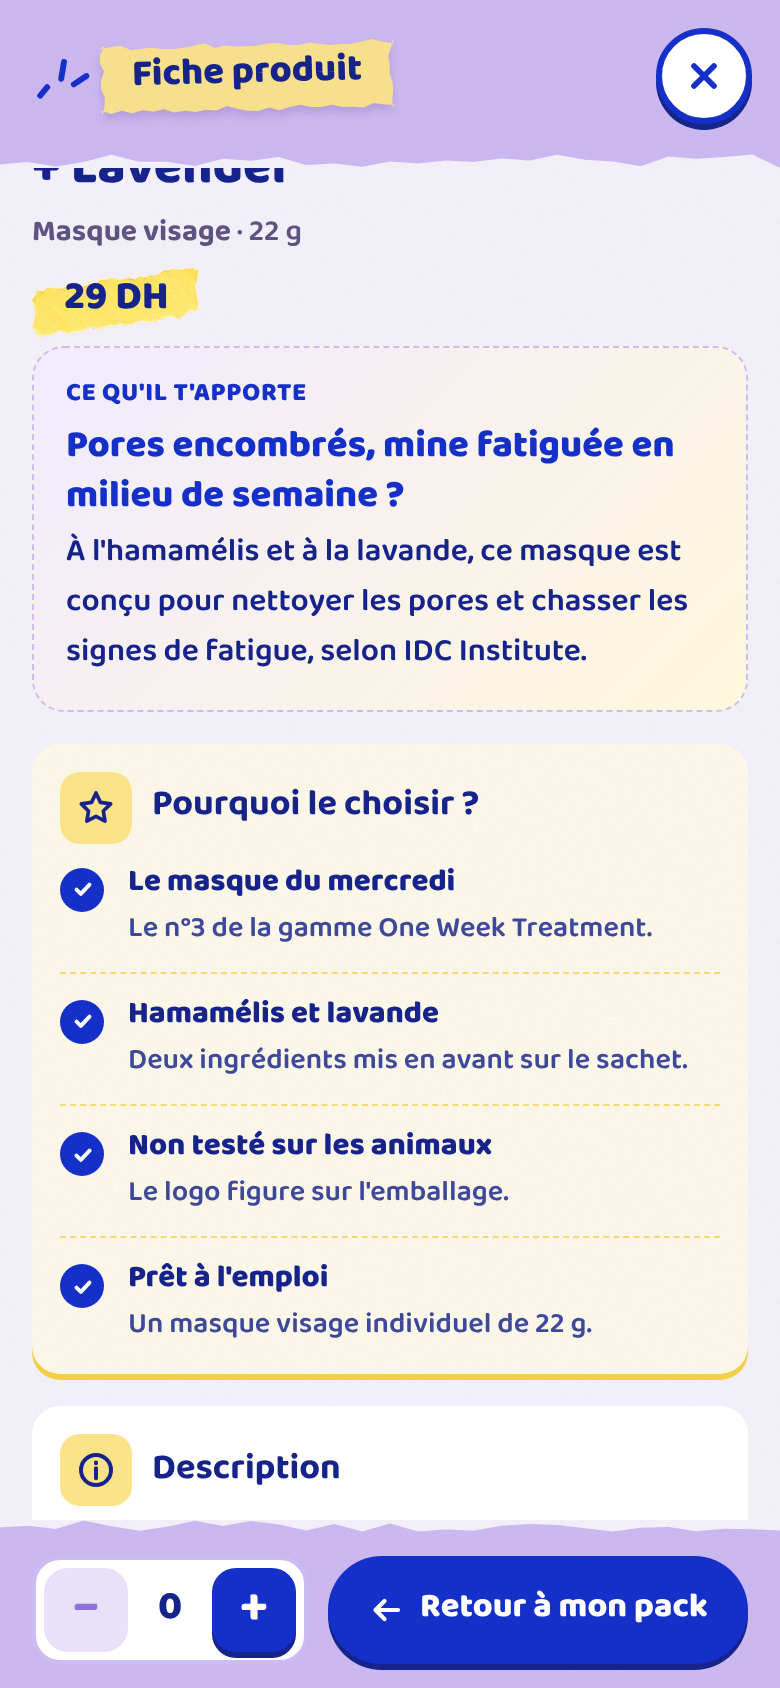
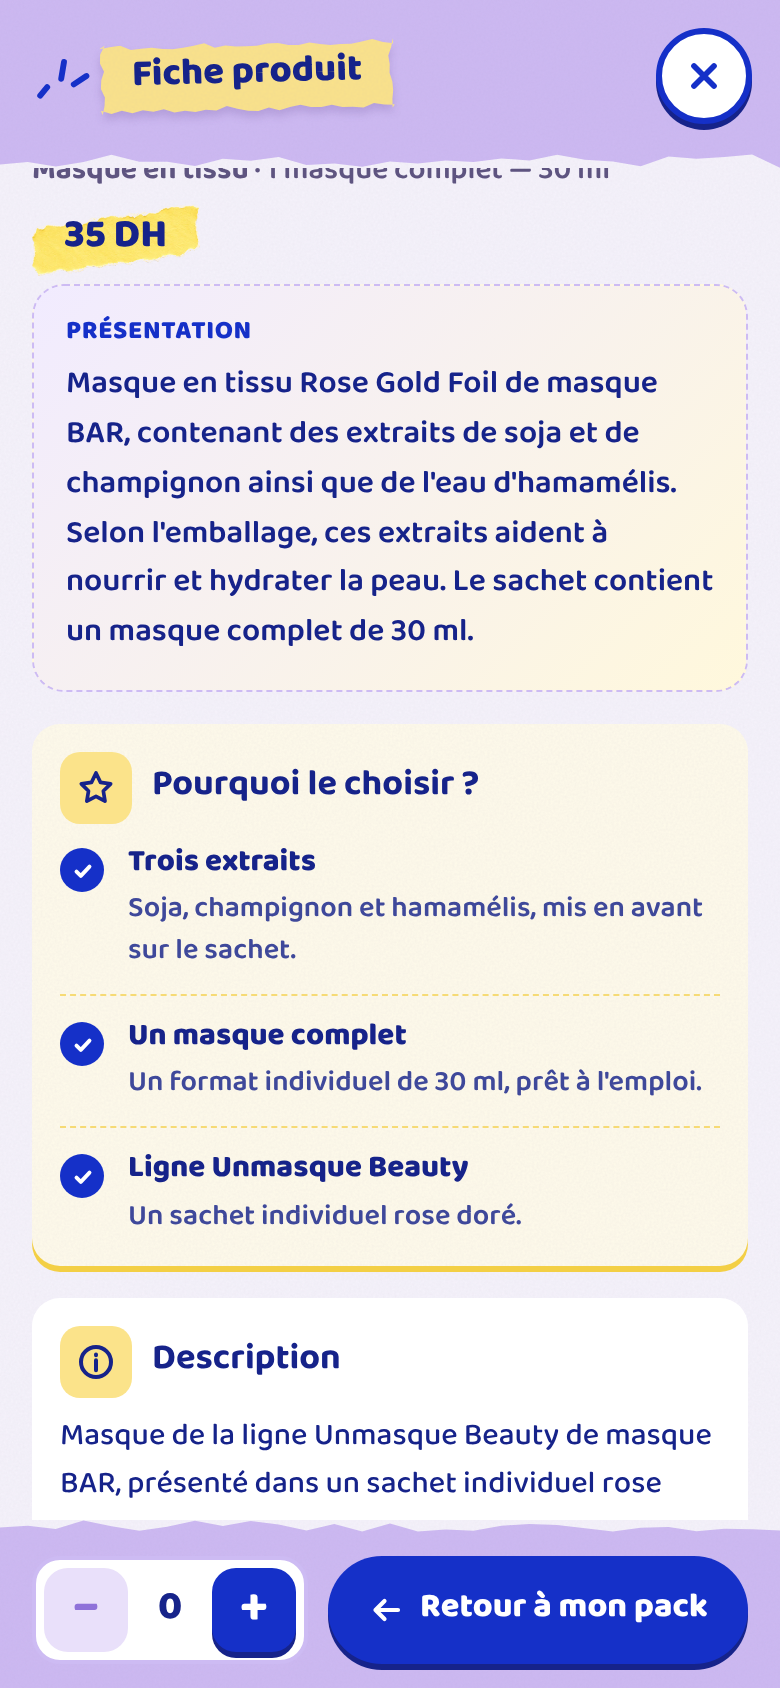
Fiches : présentation sobre et vérifiée sur les emballages (FR / AR / EN)
- Bloc « Présentation » : ce que c'est, ingrédients confirmés, ce que dit l'emballage, format
- Plus de question marketing ni de situation inventée (descriptions + 3 points forts corrigés)
- docs/presentation-fiches.md : chaque texte avec sa source sur l'emballage
- Mise à jour sûre : versions précédentes remplacées, textes de l'admin conservés

Claude-Session: https://claude.ai/code/session_01D4a2WqgbVXQvrowoBomywW

diff --git a/server/scripts/fiches.js b/server/scripts/fiches.js
@@ -8,7 +8,7 @@ import { pathToFileURL } from "node:url";
 import mysql from "mysql2/promise";
 import { loadConfig, PROJECT_ROOT } from "../src/config.js";
 
-const FILES = ["fiches-produits.sql", "photos-produits.sql", "produits-soins.sql", "descriptions-v2.sql", "points-forts-v2.sql", "contenu-v3.sql", "prix-masques.sql", "corrections-langue.sql", "meta-pixel.sql", "introductions.sql"].map(f => path.join(PROJECT_ROOT, "database", f));
+const FILES = ["fiches-produits.sql", "photos-produits.sql", "produits-soins.sql", "descriptions-v2.sql", "points-forts-v2.sql", "contenu-v3.sql", "prix-masques.sql", "corrections-langue.sql", "meta-pixel.sql", "introductions.sql", "fiches-sobres.sql"].map(f => path.join(PROJECT_ROOT, "database", f));
 
 /* Découpe le fichier en blocs « -- fiche: <clé> | <libellé> » + une requête UPDATE */
 async function blocks() {
@@ -60,7 +60,8 @@ export async function applyFiches(conn, { quiet = false } = {}) {
         : r.key.startsWith("v3-") ? "Fiches v3 — avantages d'abord, une langue par texte :"
         : r.key.startsWith("langue-") ? "Corrections de langue (FR / AR / EN) :"
         : r.key.startsWith("reglage-") ? "Réglages :"
-        : r.key.startsWith("intro-") ? "Introductions des fiches (« Ce qu’il t’apporte ») :"
+        : r.key.startsWith("sobre-") ? "Descriptions et points forts sobres :"
+        : r.key.startsWith("intro-") ? "Présentation des fiches (version vérifiée sur les emballages) :"
         : r.key.startsWith("prix-") ? "Prix unitaires des masques (posés seulement si le prix est vide) :"
         : r.key.startsWith("produit-") || r.key.startsWith("categorie") || r.key.startsWith("photo-orjena") || r.key.startsWith("photo-somebymi") ? "Soins à l'unité :"
         : r.key.startsWith("photo-") ? "Photos d'ambiance :" : "";
@@ -69,7 +70,7 @@ export async function applyFiches(conn, { quiet = false } = {}) {
         : r.key.startsWith("reglage-") ? (r.changed ? `ajouté → ${r.setting}` : `déjà réglé, conservé → ${r.setting}`)
         : r.key.startsWith("prix-") ? (r.changed ? `prix posé → ${r.prices.join(", ")}` : `prix déjà saisi, conservé → ${r.prices.join(", ")}`)
         : r.created ? (r.changed ? "ajoutée" : "déjà présente")
-        : r.key.startsWith("desc-") || r.key.startsWith("pf-") || r.key.startsWith("v3-") || r.key.startsWith("langue-") || r.key.startsWith("intro-") ? (r.changed ? "réécrite" : "déjà à jour (ou modifiée dans l'admin : conservée)")
+        : r.key.startsWith("desc-") || r.key.startsWith("pf-") || r.key.startsWith("v3-") || r.key.startsWith("langue-") || r.key.startsWith("intro-") || r.key.startsWith("sobre-") ? (r.changed ? "réécrite" : "déjà à jour (ou modifiée dans l'admin : conservée)")
         : r.changed ? `complétée (${r.matched} produit(s))` : `déjà à jour (${r.matched} produit(s))`;
       console.log(`  ${r.matched ? "✔" : "✖"} ${r.label.padEnd(62)} ${state}`);
     }

diff --git a/client/src/shop/pages/PickPage.jsx b/client/src/shop/pages/PickPage.jsx
@@ -19,7 +19,7 @@ export const P = {
     empty: "Vide", removeOne: "Retirer ce masque", sheetTag: "Fiche produit", photo: n => `Photo ${n}`,
     packText: "Mentions imprimées sur l'emballage", packNote: "Recopiées telles quelles, dans la langue de l'emballage.",
     info: "Description", usage: "Mode d'emploi", video: "Vidéo", notGiven: "Information à confirmer",
-    intro: "Ce qu'il t'apporte", hl: "Pourquoi le choisir ?", specs: "Fiche technique",
+    intro: "Présentation", hl: "Pourquoi le choisir ?", specs: "Fiche technique",
     sBrand: "Marque", sName: "Nom du produit", sType: "Type", sContent: "Contenance", precautions: "Précautions",
     packMore: "Voir le texte original de l'emballage",
     backTo: "Retour à mon pack", edit: "Modifier le pack", added: "Pack ajouté au panier ✓", addedBtn: "Ajouté",
@@ -33,7 +33,7 @@ export const P = {
     empty: "فارغ", removeOne: "إزالة هذا القناع", sheetTag: "بطاقة المنتج", photo: n => `الصورة ${n}`,
     packText: "النص المطبوع على الغلاف", packNote: "منقول كما هو، بلغة الغلاف.",
     info: "الوصف", usage: "طريقة الاستعمال", video: "فيديو", notGiven: "معلومة في انتظار التأكيد",
-    intro: "ما يقدّمه لكِ", hl: "لماذا تختارينه؟", specs: "البطاقة التقنية",
+    intro: "نبذة عن المنتج", hl: "لماذا تختارينه؟", specs: "البطاقة التقنية",
     sBrand: "العلامة التجارية", sName: "اسم المنتج", sType: "النوع", sContent: "المحتوى", precautions: "احتياطات الاستعمال",
     packMore: "عرض النص الأصلي للغلاف",
     backTo: "العودة إلى باقتي", edit: "تعديل الباقة", added: "أُضيفت الباقة إلى السلة ✓", addedBtn: "تمت الإضافة",
@@ -47,7 +47,7 @@ export const P = {
     empty: "Empty", removeOne: "Remove this mask", sheetTag: "Product sheet", photo: n => `Photo ${n}`,
     packText: "Printed on the packaging", packNote: "Copied as printed, in the packaging's language.",
     info: "Description", usage: "How to use", video: "Video", notGiven: "Information to be confirmed",
-    intro: "What it does for you", hl: "Why choose it?", specs: "Product details",
+    intro: "Overview", hl: "Why choose it?", specs: "Product details",
     sBrand: "Brand", sName: "Product name", sType: "Type", sContent: "Contents", precautions: "Precautions",
     packMore: "See the original packaging text",
     backTo: "Back to my pack", edit: "Change pack", added: "Pack added to cart ✓", addedBtn: "Added",

diff --git a/client/src/admin/pages/ProductForm.jsx b/client/src/admin/pages/ProductForm.jsx
@@ -101,9 +101,9 @@ export default function ProductForm() {
             </div>
           </Card>
 
-          <Card title="Introduction (ce qu’il t’apporte)" icon="star" actions={<Tabs small label="Langue de l'introduction" tabs={langTabs("intro")} value={introLang} onChange={setIntroLang} />}>
+          <Card title="Présentation (affichée en premier)" icon="star" actions={<Tabs small label="Langue de l'introduction" tabs={langTabs("intro")} value={introLang} onChange={setIntroLang} />}>
             {LANGS.map(([k, l]) => k === introLang && (
-              <Field key={k} label={`Introduction — ${l}`} error={errs["intro" + k]} hint="Affichée en premier sur la fiche : une question courte (« Peau terne ? »), puis le bénéfice annoncé par l’emballage avec « aide à », « conçu pour » ou « selon la marque ». Les effets annoncés par l'emballage sont présentés comme la description de la marque, jamais comme un résultat garanti. Vide = bloc masqué.">
+              <Field key={k} label={`Introduction — ${l}`} error={errs["intro" + k]} hint="Affichée en premier sur la fiche : ce que c’est, les ingrédients ou caractéristiques confirmés, puis ce que dit l’emballage (« selon l’emballage », « la marque le présente comme »). Pas de question marketing ni de situation inventée. Les effets annoncés par l'emballage sont présentés comme la description de la marque, jamais comme un résultat garanti. Vide = bloc masqué.">
                 <textarea rows={4} dir={k === "Ar" ? "rtl" : undefined} {...fp("intro" + k)} /></Field>))}
           </Card>
 

diff --git a/docs/presentation-fiches.md b/docs/presentation-fiches.md
@@ -1,0 +1,75 @@
+# Présentation des fiches — version vérifiée (27/11/2026)
+
+Bloc **« Présentation »** (AR « نبذة عن المنتج », EN « Overview ») affiché en premier. Chaque phrase est vérifiée sur la photo de l'emballage.
+Structure : ce que c'est → ingrédients / caractéristiques confirmés → ce que dit l'emballage (« selon l'emballage », « la marque le présente comme ») → format.
+Aucune question marketing, aucune situation d'utilisation inventée, aucun résultat garanti.
+
+## 1. MEDIHEAL — Collagen
+
+**Source (emballage) :** « COLLAGEN » ; « 98 % » (texte coréen « 순도 UPGRADE ») ; « CORE FIRMING » ; « DERMATOLOGY TEST COMPLETED » ; « MEDIHEAL DERMATOLOGY ». Contenance et type exact (tissu, gel…) : non indiqués.
+
+- **FR** — Masque visage MEDIHEAL au collagène, d'une pureté de 98 % selon l'emballage. La marque le présente comme un soin destiné à la fermeté de la peau. Il est testé dermatologiquement (gamme Mediheal Dermatology).
+- **AR** — قناع للوجه من MEDIHEAL بالكولاجين، بنقاوة 98% حسب الغلاف. تقدّمه العلامة كعناية موجّهة لتماسك البشرة. وهو مختبَر جلدياً (مجموعة Mediheal Dermatology).
+- **EN** — MEDIHEAL face mask with collagen, 98% pure according to the packaging. The brand presents it as a care for skin firmness. It is dermatologically tested (Mediheal Dermatology line).
+
+## 2. 7th Heaven — Vitamin C
+
+**Source (emballage) :** « VITAMIN C » ; « ADVANCED SERUM SHEET MASK » ; « ANTI-FATIGUE — Brightening + Re-Energising » ; « FOR ALL SKIN TYPES » ; « Vegetarian Society Vegan Approved » ; « 1 BIODEGRADABLE SHEET MASK ». Le « 5 % Active Complex* » n'est pas repris (astérisque non expliqué).
+
+- **FR** — Masque en tissu imprégné d'un sérum à la vitamine C, adapté à tous les types de peau. Selon l'emballage, c'est un masque anti-fatigue qui aide à illuminer et à redynamiser la peau. Il est végan (approuvé par la Vegetarian Society) et le sachet contient un masque en tissu biodégradable.
+- **AR** — قناع قماشي مشبّع بسيروم فيتامين سي، مناسب لجميع أنواع البشرة. حسب الغلاف، هو قناع لمظاهر التعب يساعد على إشراق البشرة وتنشيطها. وهو نباتي (معتمد من Vegetarian Society)، ويحتوي الكيس على قناع قماشي واحد قابل للتحلل الحيوي.
+- **EN** — Sheet mask soaked in a vitamin C serum, suitable for all skin types. According to the packaging, it is an anti-fatigue mask that helps brighten and re-energise the skin. It is vegan (approved by the Vegetarian Society) and the sachet contains one biodegradable sheet mask.
+
+## 3. look AT ME — Green Blend
+
+**Source (emballage) :** « TEA TREE + CUCUMBER FACE MASK » ; « Revitalizing & Soothing » ; « TENCEL SHEET » ; « 1 SINGLE USE SHEET MASK » ; « 25ml / 0.84 fl oz » ; « MADE IN KOREA ».
+
+- **FR** — Masque visage en tissu à l'arbre à thé et au concombre, sur une feuille en Tencel. Selon l'emballage, il aide à revitaliser et à apaiser la peau. Le sachet contient un masque à usage unique de 25 ml, fabriqué en Corée.
+- **AR** — قناع قماشي للوجه بشجرة الشاي والخيار، على ورقة من ألياف Tencel. حسب الغلاف، يساعد على إنعاش البشرة وتهدئتها. يحتوي الكيس على قناع واحد للاستعمال مرة واحدة بحجم 25 مل، مصنوع في كوريا.
+- **EN** — Face sheet mask with tea tree and cucumber, on a Tencel sheet. According to the packaging, it helps revitalise and soothe the skin. The sachet contains one single-use 25 ml mask, made in Korea.
+
+## 4. IDC Institute — Hazel + Lavender
+
+**Source (emballage) :** « ONE WEEK TREATMENT » ; « 3 — WEDNESDAY » ; « Hazel + Lavender » ; « 22g / 0.73 fl.oz — FACIAL MASK » ; logo « CRUELTY FREE » ; « Nettoie les pores et élimine la fatigue de la peau » (texte français imprimé).
+
+- **FR** — Masque visage à l'hamamélis et à la lavande, n°3 (mercredi) de la gamme One Week Treatment d'IDC Institute. Selon l'emballage, il nettoie les pores et élimine la fatigue de la peau. Il n'est pas testé sur les animaux et le sachet contient un masque de 22 g.
+- **AR** — قناع للوجه بالهماميليس واللافندر، رقم 3 (الأربعاء) من مجموعة One Week Treatment من IDC Institute. حسب الغلاف، ينظّف المسام ويزيل مظاهر التعب عن البشرة. وهو غير مختبَر على الحيوانات، ويحتوي الكيس على قناع واحد بوزن 22 غرام.
+- **EN** — Face mask with witch hazel and lavender, no. 3 (Wednesday) in IDC Institute's One Week Treatment line. According to the packaging, it cleans the pores and removes tiredness from the face. It is cruelty free and the sachet contains one 22 g mask.
+
+## 5. SOME BY MI — Real Glutathione
+
+**Source (emballage) :** « Moisturizing | Radiance » ; « Dermatologist Tested » ; « A 100% plant-based biodegradable sheet mask formulated with Real Glutathione that revitalizes dull skin and promotes a brighter, more even skin tone » ; « NET 20 G ».
+
+- **FR** — Masque en tissu au glutathion, sur une feuille 100 % végétale et biodégradable. Selon l'emballage, il hydrate, ravive les peaux ternes et favorise un teint plus lumineux et plus uniforme. Il est testé dermatologiquement ; poids net : 20 g.
+- **AR** — قناع قماشي بالغلوتاثيون، على ورقة نباتية 100% وقابلة للتحلل الحيوي. حسب الغلاف، يرطّب البشرة وينعش البشرة الباهتة ويساعد على لون بشرة أكثر إشراقاً وتوحّداً. وهو مختبَر جلدياً، ووزنه الصافي 20 غرام.
+- **EN** — Sheet mask with glutathione, on a 100% plant-based, biodegradable sheet. According to the packaging, it moisturises, revitalises dull skin and promotes a brighter, more even skin tone. It is dermatologist tested; net weight: 20 g.
+
+## 6. masque BAR — Rose Gold Foil
+
+**Source (emballage) :** « sheet mask » ; « enriched with extracts that help nourish and hydrate your skin » ; « Contains: Soybean Extract, Mushroom Extract, Witch Hazel Water » ; « 1 COMPLETE MASK — 30 ml » ; « UNMASQUE BEAUTY ».
+
+- **FR** — Masque en tissu Rose Gold Foil de masque BAR, contenant des extraits de soja et de champignon ainsi que de l'eau d'hamamélis. Selon l'emballage, ces extraits aident à nourrir et hydrater la peau. Le sachet contient un masque complet de 30 ml.
+- **AR** — قناع قماشي Rose Gold Foil من masque BAR، يحتوي على مستخلص الصويا ومستخلص الفطر وماء الهماميليس. حسب الغلاف، تساعد هذه المستخلصات على تغذية البشرة وترطيبها. يحتوي الكيس على قناع كامل بحجم 30 مل.
+- **EN** — masque BAR Rose Gold Foil sheet mask, containing soybean and mushroom extracts as well as witch hazel water. According to the packaging, these extracts help nourish and hydrate the skin. The sachet contains one complete 30 ml mask.
+
+## 7. ORJENA — Power Collagen Emulsion
+
+**Source (emballage) :** « POWER COLLAGEN EMULSION » ; « SKIN ELASTICITY / SKIN NUTRITION / REFRESH » ; « FOR ALL SKIN TYPES » ; « 100ml ». Mode d'emploi : visuel « Nettoyez et tonifiez / Versez dans la paume / Appliquez par pressions douces ». ⚠ Visuels générés par IA : une vraie photo du produit est recommandée.
+
+- **FR** — Émulsion pour le visage au collagène, adaptée à tous les types de peau. Selon l'emballage, elle est destinée à l'élasticité, à la nutrition et à la fraîcheur de la peau. Elle s'applique après le nettoyage et le tonique, par pressions douces. Flacon de 100 ml.
+- **AR** — مستحلب للوجه بالكولاجين، مناسب لجميع أنواع البشرة. حسب الغلاف، هو موجّه لمرونة البشرة وتغذيتها وانتعاشها. يُطبَّق بعد التنظيف والتونر بضغطات خفيفة. قارورة بحجم 100 مل.
+- **EN** — Collagen face emulsion, suitable for all skin types. According to the packaging, it is designed for skin elasticity, nourishment and freshness. Apply after cleansing and toning, with gentle pressing motions. 100 ml bottle.
+
+## 8. SOME BY MI — Yuja Niacin
+
+**Source (emballage) :** « YUJA NIACIN ANTI BLEMISH CREAM » ; « YUJA EXTRACT » ; « NIACINAMIDE 5 % » ; « NET 60 G » (écrit « 60 6 » sur le visuel IA). « Non-Comedogenic Tested(*) » non repris (astérisque non expliqué). Mode d'emploi : texte officiel confirmé.
+
+- **FR** — Crème pour le visage à l'extrait de yuja (un agrume coréen) et à 5 % de niacinamide. La marque la présente comme une crème anti-imperfections. Elle s'applique en fine couche, après le nettoyage et le tonique. Pot de 60 g.
+- **AR** — كريم للوجه بمستخلص اليوجا (حمضيات كورية) و5% من النياسيناميد. تقدّمه العلامة ككريم مضاد للشوائب. يُطبَّق بطبقة رقيقة بعد التنظيف والتونر. علبة بوزن 60 غرام.
+- **EN** — Face cream with yuja extract (a Korean citrus fruit) and 5% niacinamide. The brand presents it as an anti-blemish cream. Apply a thin layer after cleansing and toning. 60 g jar.
+
+## Autres corrections (même principe)
+
+- **Descriptions** des 8 produits : remplacées par une présentation sobre de l'emballage et de la gamme (fin de « soirée entre copines », « rendez-vous beauté », « à portée de main », « plein de peps »…).
+- **Pourquoi le choisir ?** : 3 lignes rendues factuelles — MEDIHEAL (« facile à emporter ou à offrir » → « un masque par sachet »), ORJENA (« à garder à portée de main » → « un flacon de 100 ml »), masque BAR (« une touche chic » → « ligne Unmasque Beauty »).
+- Fichiers : `database/introductions.sql`, `database/fiches-sobres.sql` (un texte modifié dans l'admin n'est jamais écrasé).

diff --git a/README.md b/README.md
@@ -68,7 +68,7 @@ npm run db:seed
 
 - `db:migrate` crée toutes les tables (fichiers `database/migrations/*.sql`, suivis dans la table `schema_migrations` : on peut le relancer sans risque).
 - `db:seed` ajoute les 6 masques de l'ancienne version (marque, nom, mentions d'emballage, photo), la catégorie « Masques en tissu » et les tailles de pack 3 / 4 / 6 — **sans prix ni stock** — puis complète leurs fiches détaillées FR / AR / EN (`database/fiches-produits.sql`, voir `docs/fiches-produits.md`). Relancer `db:seed` ne crée aucun doublon et n'écrase jamais un champ déjà rempli.
-- `db:migrate` complète aussi automatiquement les fiches des produits déjà présents, et ajoute les soins vendus à l'unité (`database/produits-soins.sql`, voir `docs/produits-soins.md`), puis met à jour les descriptions et les points forts (`database/descriptions-v2.sql`, `database/points-forts-v2.sql`, `database/contenu-v3.sql`, `database/corrections-langue.sql`, `database/introductions.sql`, sans écraser un texte modifié dans l'admin). Pour voir ce qui est rempli produit par produit (FR/AR/EN) :
+- `db:migrate` complète aussi automatiquement les fiches des produits déjà présents, et ajoute les soins vendus à l'unité (`database/produits-soins.sql`, voir `docs/produits-soins.md`), puis met à jour les descriptions et les points forts (`database/descriptions-v2.sql`, `database/points-forts-v2.sql`, `database/contenu-v3.sql`, `database/corrections-langue.sql`, `database/introductions.sql`, `database/fiches-sobres.sql`, sans écraser un texte modifié dans l'admin). Pour voir ce qui est rempli produit par produit (FR/AR/EN) :
 
 ```bash
 npm run db:fiches
